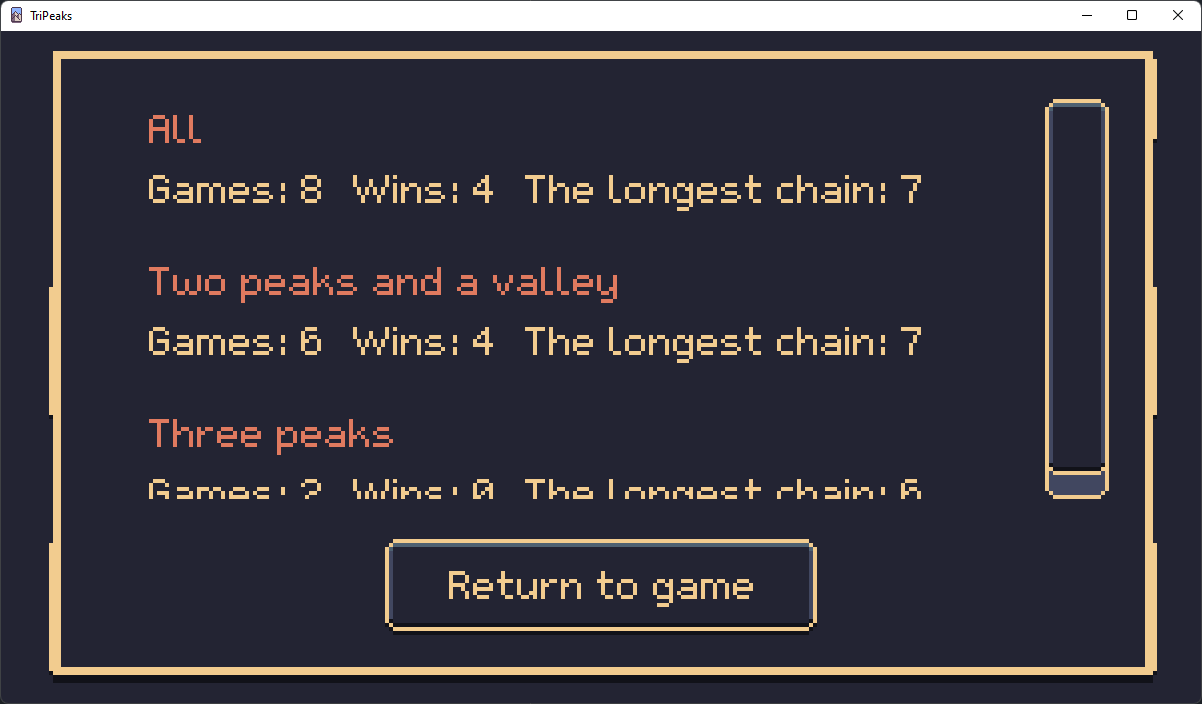
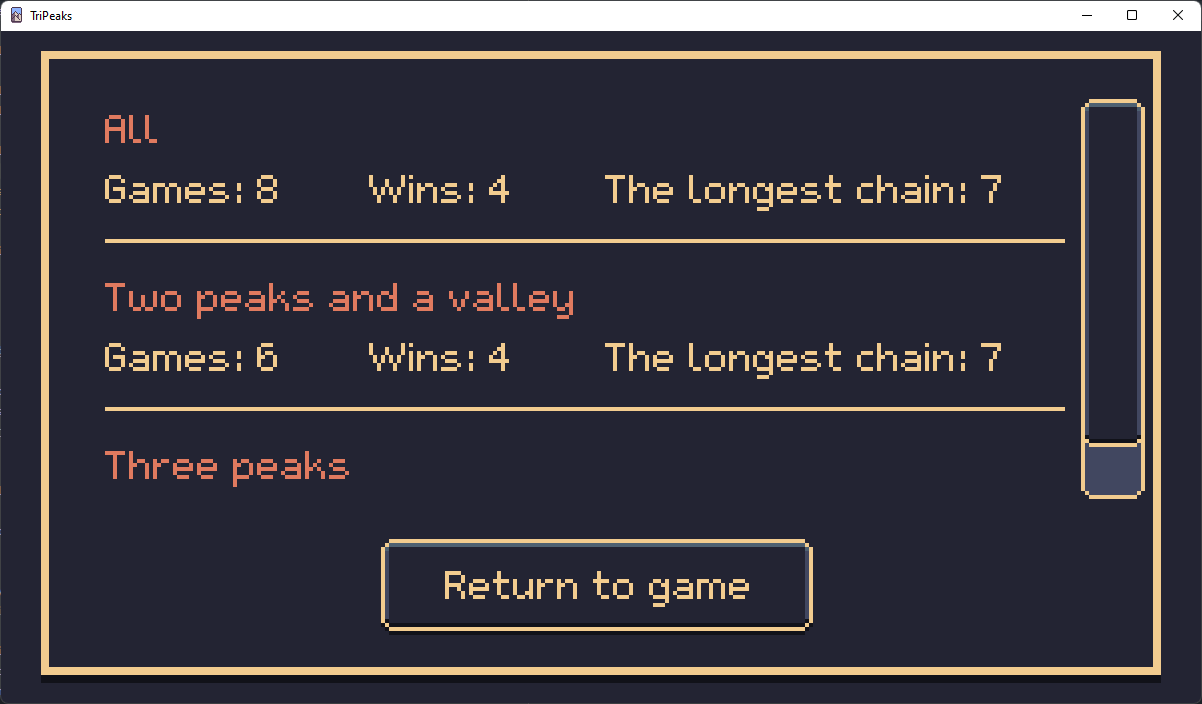
Statistics dialog horizontal lines

diff --git a/core/src/ogz/tripeaks/screens/dialogs/GameMenu.kt b/core/src/ogz/tripeaks/screens/dialogs/GameMenu.kt
@@ -1,5 +1,7 @@
 package ogz.tripeaks.screens.dialogs
 
+import com.badlogic.gdx.assets.AssetManager
+import com.badlogic.gdx.graphics.g2d.TextureAtlas
 import com.badlogic.gdx.scenes.scene2d.Actor
 import com.badlogic.gdx.scenes.scene2d.ui.HorizontalGroup
 import com.badlogic.gdx.scenes.scene2d.ui.Window
@@ -17,40 +19,46 @@ class GameMenu(
     preferences: GamePreferences,
     layouts: List<Layout>,
     res: I18NBundle,
+    ui: TextureAtlas,
     attached: Actor
 ) : Window("", skinData.skin, preferences.themeKey) {
 
     var onThemeChanged: ((useDarkTheme: Boolean) -> Unit)? = null
     var onNewDialogShown: (() -> Unit)? = null
-
     val newGameButton = MyMenuItem(res.get("newGame"), skinData, preferences.themeKey)
     val exitButton = MyMenuItem(res.get("exit"), skinData, preferences.themeKey)
-    val statsButton = MyMenuItem(res.get("statistics"), skinData, preferences.themeKey).apply {
-        setAction {
-            val statsDialog = StatisticsDialog(
-                skinData,
-                preferences.themeKey,
-                Statistics.getInstance(layouts.first().tag),
-                res
-            )
-            onNewDialogShown?.invoke()
-            statsDialog.show(this@GameMenu.stage)
+
+    private val statsButton =
+        MyMenuItem(res.get("statistics"), skinData, preferences.themeKey).apply {
+            setAction {
+                val statsDialog = StatisticsDialog(
+                    skinData,
+                    preferences.themeKey,
+                    Statistics.getInstance(layouts.first().tag),
+                    res,
+                    ui
+                )
+                onNewDialogShown?.invoke()
+                statsDialog.show(this@GameMenu.stage)
+            }
         }
-    }
-    val optionsButton = MyMenuItem(res.get("options"), skinData, preferences.themeKey).apply {
-        setAction {
-            val optionsDialog = OptionsDialog(
-                skinData,
-                preferences.themeKey,
-                preferences,
-                layouts,
-                res
-            )
-            optionsDialog.onThemeChanged = { useDarkTheme -> onThemeChanged?.invoke(useDarkTheme) }
-            onNewDialogShown?.invoke()
-            optionsDialog.show(this@GameMenu.stage)
+
+    private val optionsButton =
+        MyMenuItem(res.get("options"), skinData, preferences.themeKey).apply {
+            setAction {
+                val optionsDialog = OptionsDialog(
+                    skinData,
+                    preferences.themeKey,
+                    preferences,
+                    layouts,
+                    res
+                )
+                optionsDialog.onThemeChanged =
+                    { useDarkTheme -> onThemeChanged?.invoke(useDarkTheme) }
+                onNewDialogShown?.invoke()
+                optionsDialog.show(this@GameMenu.stage)
+            }
         }
-    }
 
     init {
         val buttonWidth = 80f

diff --git a/core/src/ogz/tripeaks/screens/dialogs/StatisticsDialog.kt b/core/src/ogz/tripeaks/screens/dialogs/StatisticsDialog.kt
@@ -1,13 +1,15 @@
 package ogz.tripeaks.screens.dialogs
 
-import com.badlogic.gdx.scenes.scene2d.ui.Dialog
-import com.badlogic.gdx.scenes.scene2d.ui.Label
-import com.badlogic.gdx.scenes.scene2d.ui.ScrollPane
-import com.badlogic.gdx.scenes.scene2d.ui.Table
+import com.badlogic.gdx.assets.AssetManager
+import com.badlogic.gdx.graphics.g2d.Sprite
+import com.badlogic.gdx.graphics.g2d.TextureAtlas
+import com.badlogic.gdx.scenes.scene2d.ui.*
 import com.badlogic.gdx.utils.Align
 import com.badlogic.gdx.utils.I18NBundle
 import ogz.tripeaks.Const
+import ogz.tripeaks.TextureAtlasAssets
 import ogz.tripeaks.game.Statistics
+import ogz.tripeaks.get
 import ogz.tripeaks.screens.controls.MyTextButton
 import ogz.tripeaks.util.SkinData
 
@@ -16,18 +18,19 @@ class StatisticsDialog(
     skinData: SkinData,
     theme: String,
     statistics: Statistics,
-    val res: I18NBundle,
+    private val res: I18NBundle,
+    private val ui: TextureAtlas
 ) : Dialog("", skinData.skin, theme) {
     init {
         val titleStyle = "title_$theme"
 
-        pad(12f, 24f, 12f, 11f)
+        pad(12f, 16f, 12f, 4f)
 
         val table = Table(skinData.skin).apply {
             // debug()
             align(Align.left)
             defaults().align(Align.left).pad(0f).space(0f, 0f, 0f, 8f)
-            width = 240f
+            width = 260f
 
             val games = statistics.perLayoutStatistics.values().sumOf { it.played }
             val wins = statistics.perLayoutStatistics.values().sumOf { it.won }
@@ -50,6 +53,8 @@ class StatisticsDialog(
 
             for (layout in statistics.perLayoutStatistics.values().filter { it.played > 0 }
                 .sortedByDescending { it.played }) {
+                add(Image(ui.findRegion("line_$theme"))).width(this.width - 20f).colspan(3).align(Align.left).padTop(5f).padBottom(-2f)
+                row()
                 add(Label(res.get(layout.tag), skinData.skin, titleStyle)).colspan(3).padTop(8f)
                 row()
                 add(Label("${res.get("statGames")}: ${layout.played}", skinData.skin, theme))
@@ -79,7 +84,7 @@ class StatisticsDialog(
 
         buttonTable.apply {
             // More padding on the left to compensate uneven window padding:
-            pad(4f, 4f, 0f, 17f)
+            pad(4f, 4f, 0f, 18f)
             defaults().width(108f).space(4f).height(Const.BUTTON_HEIGHT).pad(0f)
             add(MyTextButton(res.get("return"), skinData, theme).apply {
                 setAction { hide() }

diff --git a/core/src/ogz/tripeaks/screens/GameScreen.kt b/core/src/ogz/tripeaks/screens/GameScreen.kt
@@ -346,6 +346,7 @@ class GameScreen(
                 preferences,
                 layoutList,
                 assets[BundleAssets.Bundle],
+                assets[TextureAtlasAssets.Ui],
                 menuButton
             ).apply {
                 newGameButton.setAction {
